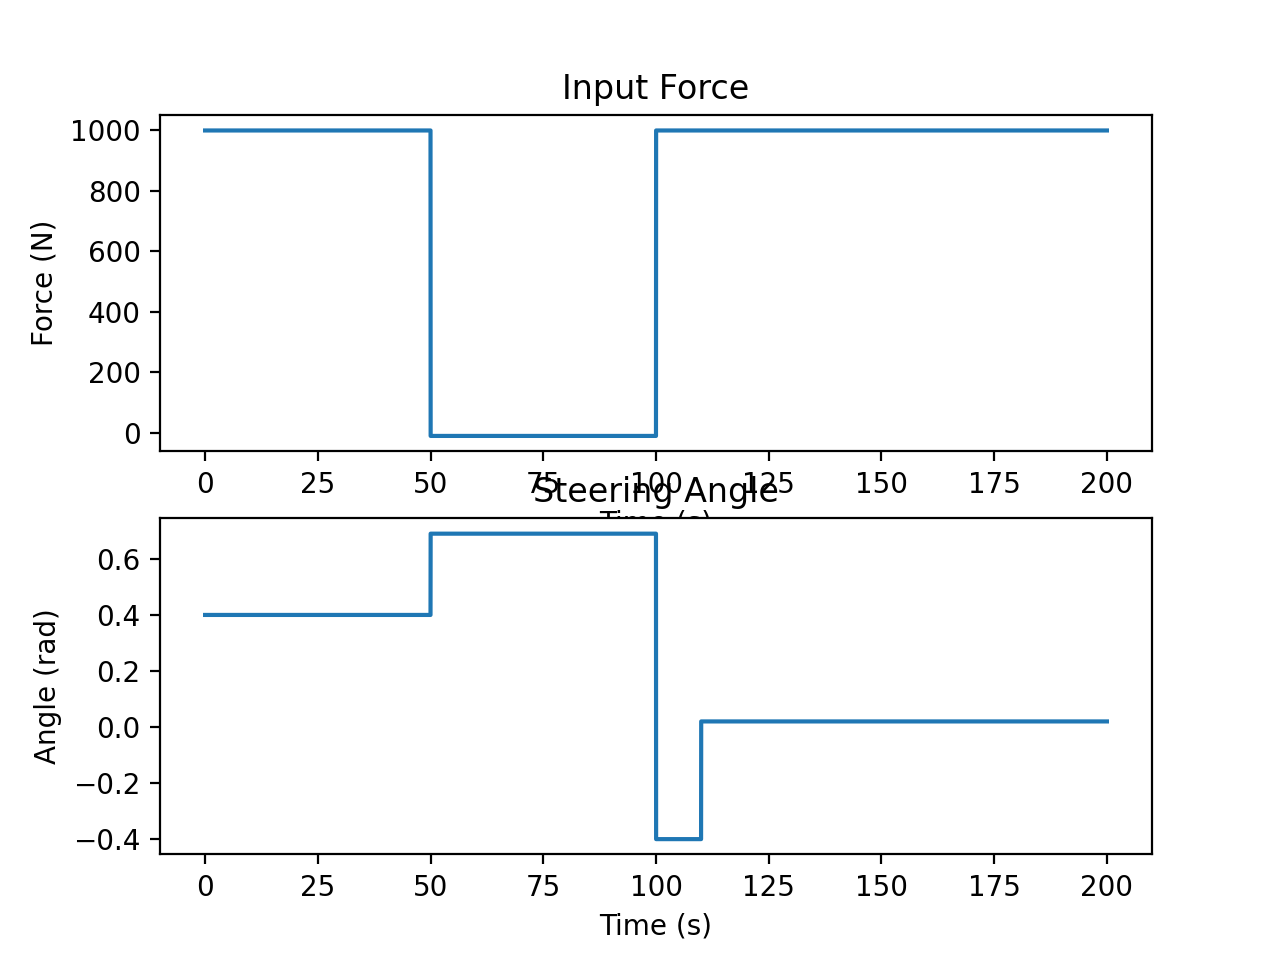
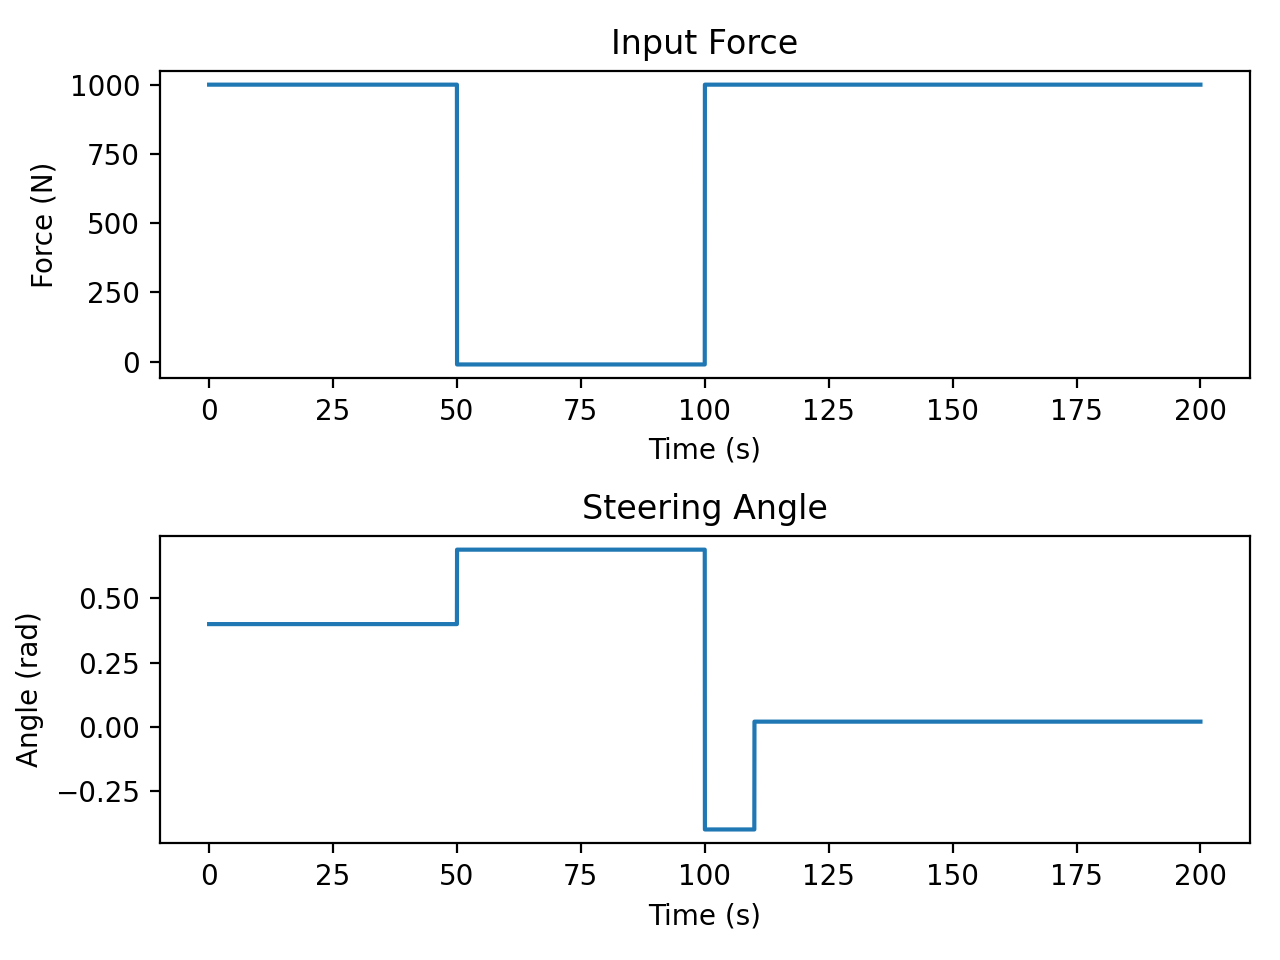
Cleaned up graphs

diff --git a/adaptive_mpc/__main__.py b/adaptive_mpc/__main__.py
@@ -97,9 +97,9 @@ for k in range(len(tspan) - 1):
     
     # Assume that we can measure the force experienced by the tires
     F_f_act = Pf_actual_k * alpha_f_k # Front lateral force
-    F_f_act += np.random.normal(0, abs(F_f_act*0.025))  # Add noise to the measurements
+    # F_f_act += np.random.normal(0, abs(F_f_act*0.025))  # Add noise to the measurements
     F_r_act = Pr_actual_k * alpha_r_k # Rear lateral force
-    F_r_act += np.random.normal(0, abs(F_r_act*0.025))  # Add noise to the measurements
+    # F_r_act += np.random.normal(0, abs(F_r_act*0.025))  # Add noise to the measurements
 
     # Measurement (using both lateral velocity and yaw rate)
     y_meas = np.array([F_f_act, F_r_act])  # Actual measurements
@@ -129,6 +129,7 @@ plt.plot(tspan, Pr_est)
 plt.title('Estimated Pr over Time')
 plt.xlabel('Time (s)')
 plt.ylabel('Pr (N/rad)')
+plt.tight_layout()
 
 plt.figure()
 plt.subplot(2, 1, 1)
@@ -146,6 +147,7 @@ plt.title('Rear Lateral Force')
 plt.xlabel('Time (s)')
 plt.ylabel('Force (N)')
 plt.legend()
+plt.tight_layout()
 
 plt.figure()
 plt.subplot(2, 1, 1)
@@ -159,5 +161,6 @@ plt.plot(tspan, delta)
 plt.title('Steering Angle')
 plt.xlabel('Time (s)')
 plt.ylabel('Angle (rad)')
+plt.tight_layout()
 
 plt.show()
